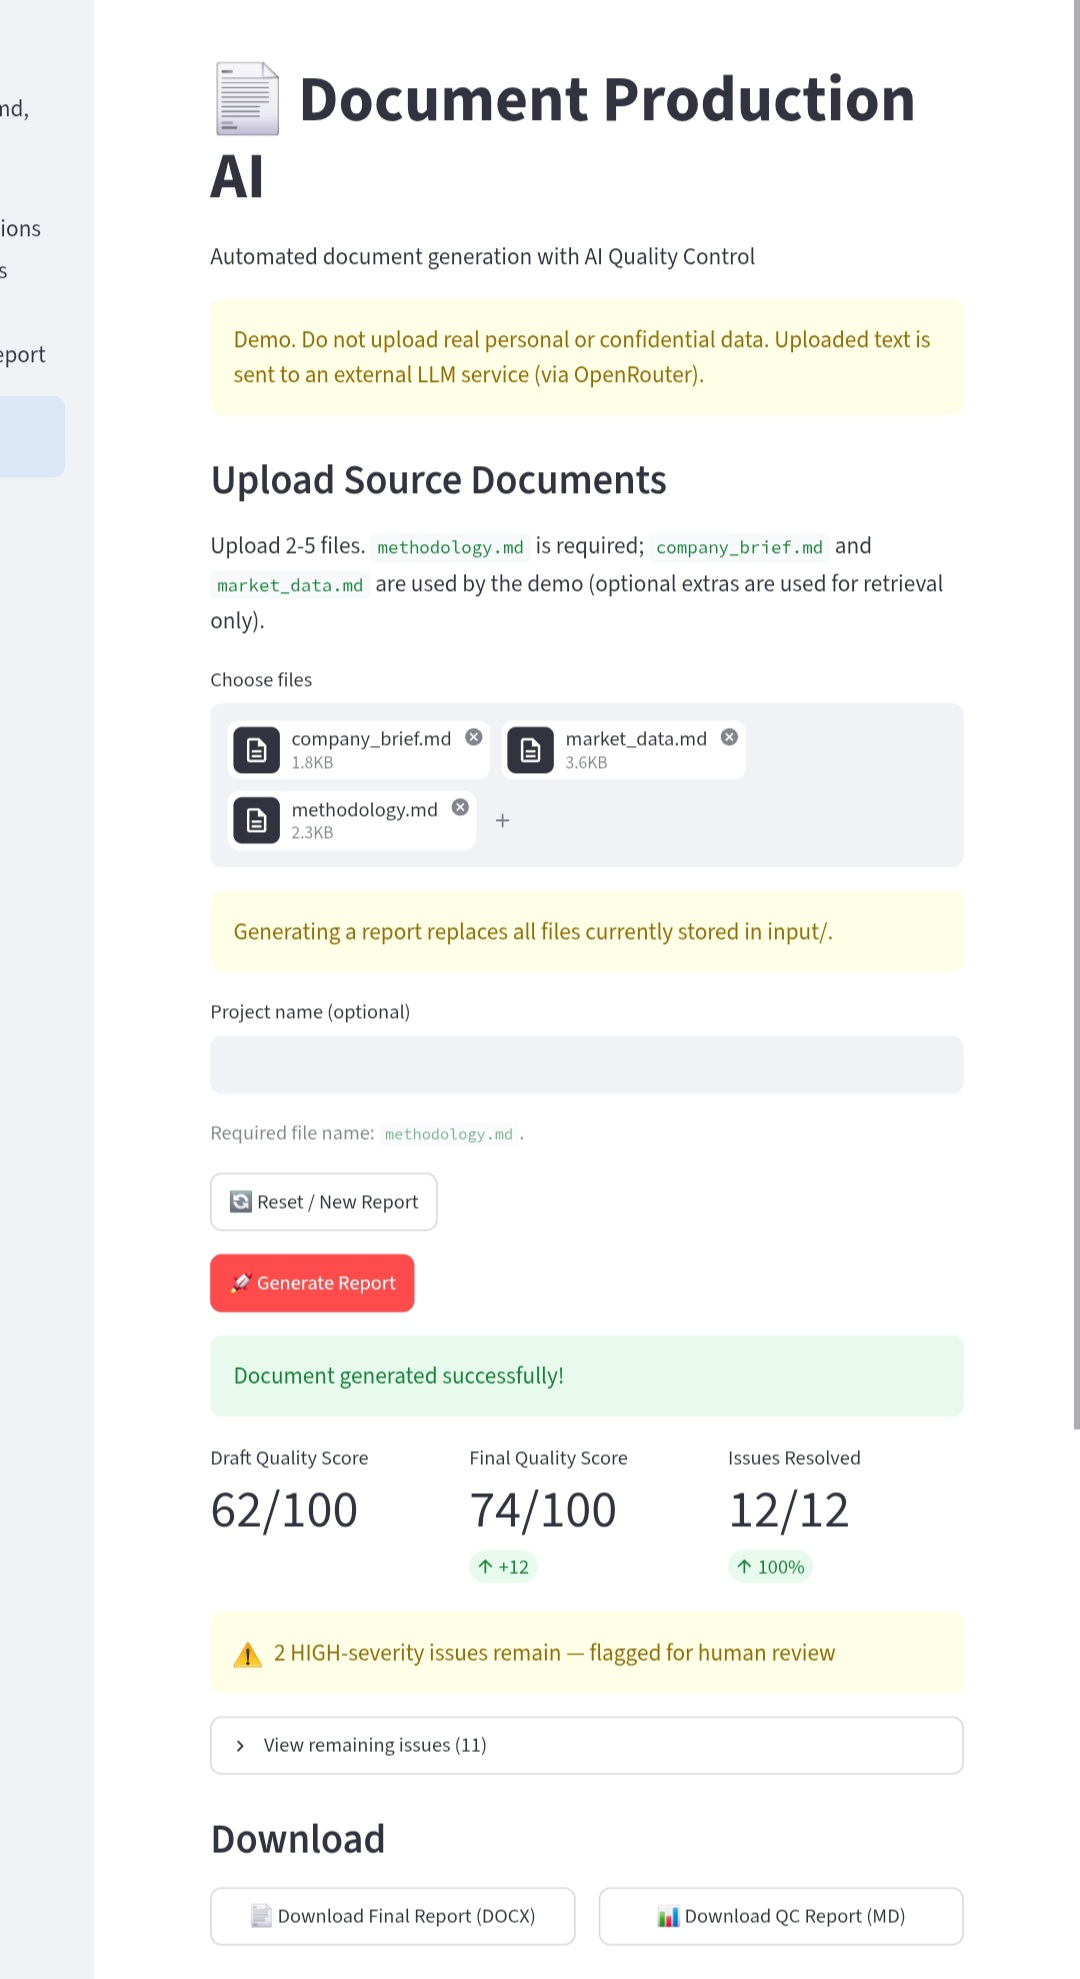
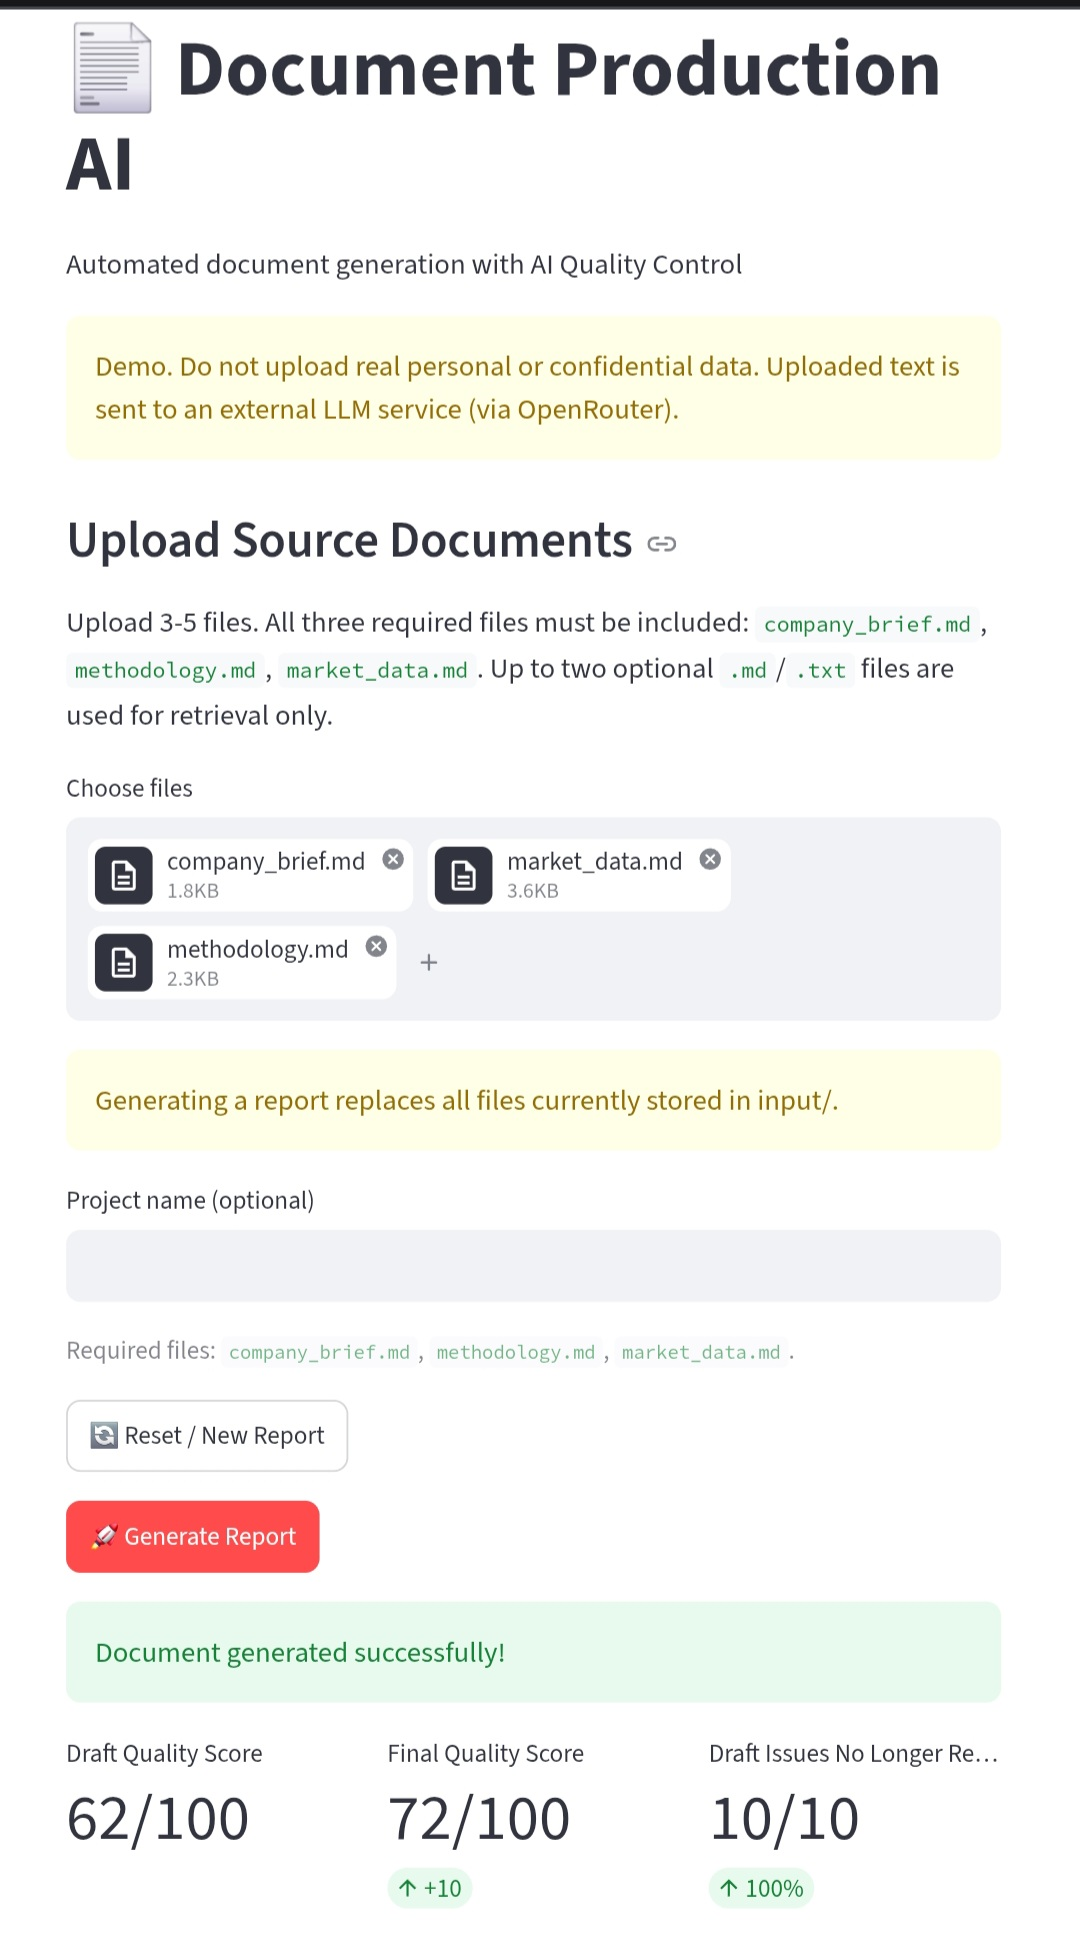
K1-final: update README and demo/expected/ to web run (62→72, +10)

diff --git a/demo/expected/QC_Report.md b/demo/expected/QC_Report.md
@@ -4,136 +4,128 @@
 
 ### Draft Quality (before AI revision)
 - Score: 62/100
-- Total Issues: 12
-  - HIGH: 7
-  - MEDIUM: 4
+- Total Issues: 10
+  - HIGH: 4
+  - MEDIUM: 5
   - LOW: 1
 
 ### Final Quality (after AI revision)
-- Score: 78/100
+- Score: 72/100
 - Total Issues: 10
-  - HIGH: 0
-  - MEDIUM: 10
-  - LOW: 0
+  - HIGH: 1
+  - MEDIUM: 8
+  - LOW: 1
 
 ### Improvement Metrics
-- Score Improvement: 62 → 78 (**+16**)
-- Draft Issues No Longer Reported: 12/12 (**100%**)
+- Score Improvement: 62 → 72 (**+10**)
+- Draft Issues No Longer Reported: 10/10 (**100%**)
 - Sections Improved: 4
 
 ---
 
 ## Draft Issues (before revision)
 
-### HIGH Severity (7 issues)
+### HIGH Severity (4 issues)
 
-1. **Key Risks**: Specific rent figure of €300 per square meter in Berlin and Vienna is not present in any source data or outline.
-   - Location: "average high street retail rents can exceed €300 per square meter"
-   - Suggestion: Remove the specific figure or replace with 'Data not available' per methodology rule 3.
+1. **Executive Summary**: EduVn is described as a key player in higher education, but sources state it specializes in language learning/ESL.
+   - Location: "EduVn: A key player in the higher education space, providing robust platforms for university-level education."
+   - Suggestion: Describe EduVn as a language learning specialist with strong ESL presence, per source data.
 
-2. **Key Risks**: GDPR fine amounts (€20 million or 4% of turnover) are not traceable to market_data.md; methodology prohibits figures not in sources.
-   - Location: "fines that reach up to €20 million or 4% of annual global turnover"
-   - Suggestion: Remove specific figures; state GDPR compliance is required without citing penalty amounts.
+2. **Executive Summary**: PhilLearn is described as offering comprehensive offerings across educational levels, contradicting the source, which positions it in corporate upskilling.
+   - Location: "PhilLearn: Notable for its comprehensive offerings across various educational levels, appealing to a broad demographic."
+   - Suggestion: State PhilLearn targets corporate upskilling with 300+ company partnerships.
 
-3. **Recommendations**: Claims 67% of consumers prioritize sustainably sourced products; source data only supports 48% willingness to pay a premium for sustainable beans.
-   - Location: "67% of consumers prioritize sustainably sourced products"
-   - Suggestion: Replace with the supported 48% figure from the Urban Coffee Consumer Survey 2025.
+3. **Market Overview**: Language learning segment share of 18% does not appear in the source data or outline; only K-12 (38%) and higher education (27%) are supported.
+   - Location: "Language Learning (18%): With 18% of the market share..."
+   - Suggestion: Remove the 18% figure or mark it as 'Data not available' if not present in market_data.md.
 
-4. **Recommendations**: Statistic that 72% of consumers value knowledgeable staff appears nowhere in the outline or source data.
-   - Location: "72% of consumers value knowledgeable staff"
-   - Suggestion: Remove this statistic or mark as 'Data not available'.
+4. **Market Overview**: Specific country revenue figures ($3.1B Indonesia, $2.0B Vietnam, $1.7B Philippines, $1.4B Thailand, $1.2B Malaysia) are not in the source data; sources only identify the three largest markets without figures.
+   - Location: "Indonesia: Estimated at $3.1 billion in 2024... Malaysia: With a forecasted revenue of $1.2 billion..."
+   - Suggestion: Remove all country-level revenue figures; state only that Indonesia, Vietnam, and the Philippines are the largest markets.
 
-5. **Competitive Landscape**: Store counts of 190 (Competitor B) and 120 (Competitor C) are not in the outline key points and cannot be verified against provided sources.
-   - Location: "Number of Stores: 190" / "Number of Stores: 120"
-   - Suggestion: Remove store counts unless they can be traced to the DACH Competitor Tracker source data.
+### MEDIUM Severity (5 issues)
 
-6. **Recommendations**: Statistic '67%' found in text but not verified in source documents (automated check)
-   - Location: Section contains: 67%
-   - Suggestion: Verify statistic '67%' against source data or mark as 'Data not available'
+1. **Executive Summary**: Recommendation to invest in infrastructure development is not among the outline's key points and lacks source support.
+   - Location: "Invest in Infrastructure Development: Consider investing in partnerships or initiatives that aim to improve technological infrastructure..."
+   - Suggestion: Remove or reframe as a risk mitigation note tied to documented infrastructure limitations.
 
-7. **Recommendations**: Statistic '72%' found in text but not verified in source documents (automated check)
-   - Location: Section contains: 72%
-   - Suggestion: Verify statistic '72%' against source data or mark as 'Data not available'
+2. **Key Risks**: Outline requires an explicit 'Data not available' note for certain specific risks; the section omits this required disclosure.
+   - Location: Entire Key Risks section — no 'Data not available' marker present.
+   - Suggestion: Add an explicit 'Data not available' statement where risk data is incomplete, per methodology.
 
-### MEDIUM Severity (4 issues)
+3. **Key Risks**: Claim that non-compliance results in 'substantial penalties' is not supported by source data.
+   - Location: "Non-compliance can result in substantial penalties, which could pose a significant risk..."
+   - Suggestion: Remove or soften to a general compliance-risk statement without asserting specific consequences.
 
-1. **Key Risks**: Fabricated example of a competitor loyalty program ('free coffee after ten purchases') with no source support.
-   - Location: "a loyalty program that grants customers a free coffee after ten purchases"
-   - Suggestion: Remove the invented example; describe loyalty program risk generically.
+4. **Competitive Landscape**: Technological innovation dynamics (AI, adaptive learning algorithms, data analytics) as competitive factors are not mentioned in source data.
+   - Location: "Companies that can effectively leverage new technologies—such as artificial intelligence, adaptive learning algorithms..."
+   - Suggestion: Remove or clearly label as analyst inference rather than sourced fact.
 
-2. **Key Risks**: Reference to 'Barista Guild's Coffee Skills Program' as a specific certification is not supported by sources.
-   - Location: "certifications such as the Barista Guild's Coffee Skills Program are highly regarded"
-   - Suggestion: Remove the specific certification name or state certification requirements generically.
-
-3. **Key Risks**: Claim of a 'surge in demand for plant-based alternatives' is an unsupported trend assertion not present in source data.
-   - Location: "Recent trends have shown a surge in demand for plant-based alternatives"
-   - Suggestion: Remove or rephrase as a hypothesis requiring market research validation.
-
-4. **Competitive Landscape**: Loyalty programs are attributed specifically to Competitors A and B; outline only states established loyalty programs exist without naming which competitors.
-   - Location: "The established loyalty programs of Competitor A and Competitor B"
-   - Suggestion: Rephrase to 'established competitors' loyalty programs' unless source data names them.
+5. **Market Overview**: Growth attributed to 'rising internet penetration, increased smartphone usage, and growing acceptance of online learning' is interpretation not stated in sources; sources note low smartphone penetration in rural areas.
+   - Location: "Such growth can be attributed to a combination of factors, including rising internet penetration, increased smartphone usage..."
+   - Suggestion: Remove unsourced causal explanations or explicitly mark them as assumptions.
 
 ### LOW Severity (1 issues)
 
-1. **Executive Summary**: Executive Summary is overly long and duplicates detailed recommendations that belong in Section 5, reducing C-level conciseness.
-   - Location: Five-item detailed recommendations list within the Executive Summary
-   - Suggestion: Summarize recommendations in 2-3 sentences and defer detail to the Recommendations section.
+1. **Executive Summary**: Marketing-style language ('remarkable', 'compelling opportunity', 'poised for significant growth') conflicts with the data-driven, non-promotional tone required.
+   - Location: "...which represents a remarkable 26% year-over-year growth"; "presents a compelling opportunity"
+   - Suggestion: Replace promotional adjectives with neutral, fact-based phrasing.
 
 
 ---
 
 ## Final Issues (remaining after revision)
 
-### HIGH Severity: None
+### HIGH Severity (1 issues)
 
-### MEDIUM Severity (10 issues)
+1. **Market Overview**: Country-level revenue figures (Indonesia $3.1B, Vietnam $2.0B, Philippines $1.7B, Thailand $1.4B, Malaysia $1.2B) do not appear in the provided source data and cannot be traced to market_data.md.
+   - Location: Revenue by Country: 'Indonesia: $3.1 billion (2024)' etc.
+   - Suggestion: Verify each figure against market_data.md; remove or replace any figure not present in the source data.
 
-1. **Executive Summary**: The combined EUR 3.0 billion figure is a derived calculation (2.4B + 0.6B) but is not explicitly labeled as a calculation, violating methodology rule 2.
-   - Location: The combined target market size for specialty coffee in Germany and Austria is projected to reach EUR 3.0 billion
-   - Suggestion: Add a note such as '(calculated as EUR 2.4B + EUR 0.6B)' when stating the combined figure.
+### MEDIUM Severity (8 issues)
 
-2. **Executive Summary**: Claim that both countries have 'stringent regulations regarding food and beverage distribution' goes beyond the outline's generic 'regulatory compliance' barrier; no source detail supports this characterization.
-   - Location: Both Germany and Austria have stringent regulations regarding food and beverage distribution
-   - Suggestion: Rephrase to 'regulatory compliance requirements' without characterizing stringency, or cite a source.
+1. **Market Overview**: Claim of 'substantial increase from previous years' is unsupported; no prior-year market size data exists in the sources.
+   - Location: 'This represents a substantial increase from previous years...'
+   - Suggestion: Remove the comparison to previous years or mark as 'Data not available'.
 
-3. **Market Overview**: Claim about 'rising prominence of online shopping' is not supported by any source data; the 71% in-store figure alone does not establish an online trend.
-   - Location: Despite the rising prominence of online shopping, 71% of coffee purchases occur in physical stores
-   - Suggestion: Remove the online shopping claim or state 'Data not available' on channel trends per methodology rule 3.
+2. **Market Overview**: Growth drivers (internet penetration, mobile adoption, remote learning emphasis) are speculative and not stated in the source data.
+   - Location: '...rising internet penetration rates, increased adoption of mobile technologies, and a growing emphasis on remote and blended learning...'
+   - Suggestion: Remove unsupported drivers or clearly label them as assumptions requiring validation.
 
-4. **Competitive Landscape**: The outline specifies Competitor A has 310 stores, but the section omits this store count entirely, weakening the competitive benchmark for new entrants.
-   - Location: Competitor A holds the leading position... with a substantial revenue of EUR 0.8 billion
-   - Suggestion: Add 'operating 310 stores' to the Competitor A description.
+3. **Market Overview**: Statement that language learning data is 'partially available' goes beyond sources, which only flag corporate/upskilling data as partially available.
+   - Location: 'Data on the language learning segment and corporate/upskilling market share is partially available.'
+   - Suggestion: Restrict the 'partially available' note to corporate/upskilling only, per source data.
 
-5. **Competitive Landscape**: Market share ranking ('A commands the largest share, followed by B and C') is inferred from revenue figures; no explicit market share data is provided in sources.
-   - Location: Competitor A commands the largest share, followed by Competitor B and Competitor C
-   - Suggestion: Label as an inference from revenue figures or state 'Data not available' for market shares.
+4. **Competitive Landscape**: GoToClass's 'extensive catalog of courses and user-friendly platform' is not supported by source data, which only states 15M+ users and K-12 focus.
+   - Location: 'Their extensive catalog of courses and user-friendly platform are pivotal...'
+   - Suggestion: Remove unsupported product claims; stick to user base and segment focus.
 
-6. **Competitive Landscape**: Claims about 'economies of scale' and Competitor B 'likely appealing to price-sensitive customers' are interpretations not stated in source data.
-   - Location: provides economies of scale... which likely appeals to a broader base of customers, particularly those who are price-sensitive
-   - Suggestion: Hedge clearly as analyst interpretation or remove unsupported reasoning.
+5. **Competitive Landscape**: Claim that EduVn caters to 'various proficiency levels' and is 'a preferred choice for learners' is not in the source data.
+   - Location: 'Their tailored offerings cater to various proficiency levels, making them a preferred choice...'
+   - Suggestion: Limit description to ESL specialization and strong presence as stated in sources.
 
-7. **Key Risks**: Specifically naming Berlin and Vienna as target cities is not supported by any source data; no city-level targeting has been established.
-   - Location: rental costs in cities such as Berlin and Vienna are not available
-   - Suggestion: Refer generically to 'major cities' unless city selection is supported by sources.
+6. **Competitive Landscape**: Technological innovation dynamics (AI, adaptive learning, data analytics shaping competition) are not mentioned in source data.
+   - Location: 'Technological Innovation: The rapid advancement of technology plays a crucial role...'
+   - Suggestion: Remove or reframe as a hypothesis, not a stated market dynamic.
 
-8. **Key Risks**: References to 'health-conscious products' and 'inflation and shifts in disposable income' are not present in source data; only sustainability preference is supported.
-   - Location: a shift towards sustainability or health-conscious products... economic factors such as inflation
-   - Suggestion: Limit volatility discussion to supported consumer preference data or mark as general market context.
+7. **Key Risks**: Claim that non-compliance 'can result in substantial penalties' is not supported by source data.
+   - Location: 'Non-compliance can result in substantial penalties...'
+   - Suggestion: Remove the penalty claim or mark as 'Data not available'.
 
-9. **Recommendations**: Suggesting 'organic and fair-trade certifications' introduces certification types not mentioned in any source data.
-   - Location: potentially including organic and fair-trade certifications
-   - Suggestion: Remove specific certification names or clearly label as illustrative options requiring validation.
+8. **Key Risks**: Outline requires an explicit 'Data not available' note for certain specific risks; the section omits this methodology-required disclosure.
+   - Location: Entire Key Risks section
+   - Suggestion: Add a 'Data not available' note for risk areas lacking source data.
 
-10. **Recommendations**: Characterizing target consumers as 'tech-savvy' is unsupported; sources only indicate age range (25-40) and purchase frequency.
-   - Location: reach tech-savvy consumers who are likely to engage with specialty coffee brands
-   - Suggestion: Replace with 'consumers aged 25-40' to stay within supported data.
+### LOW Severity (1 issues)
 
-### LOW Severity: None
+1. **Executive Summary**: Marketing-style language ('burgeoning market', 'lucrative landscape', 'impressive 19.5%') conflicts with the methodology's ban on marketing clichés.
+   - Location: 'This burgeoning market', 'lucrative landscape', 'an impressive 19.5%'
+   - Suggestion: Replace with neutral, data-driven phrasing (e.g., 'projected 19.5% CAGR').
 
 
 ---
 
 ## Revision Actions Taken
 
-- All HIGH-severity issues from draft were addressed by AI Revision Loop
-- 12 out of 12 issues resolved automatically
+- 1 HIGH-severity issue(s) remain after AI revision — flagged below for human review
+- 10 out of 10 issues resolved automatically

diff --git a/README.md b/README.md
@@ -102,16 +102,16 @@ hallucinations; remaining issues are reported for human review.
 
 **Dataset:** Northwind (demo/input/), synthetic English-language brief  
 **Models:** GPT-4o-mini (generator), GLM-5.3-Flash (QC)  
-**Date:** 2026-10-31 | **Commit:** 2c9bce5
+**Date:** 2026-11-01 | **Commit:** dce0bdc
 
 | Metric | Value |
 |--------|-------|
 | Draft Quality Score | 62/100 |
-| Final Quality Score | 78/100 |
-| Score Improvement | +16 |
-| Draft Issues | 12 (HIGH: 7, MEDIUM: 4, LOW: 1) |
-| Final Issues | 10 (HIGH: 0, MEDIUM: 10, LOW: 0) |
-| Draft Issues No Longer Reported | 12/12 (100%) |
+| Final Quality Score | 72/100 |
+| Score Improvement | +10 |
+| Draft Issues | 10 (HIGH: 4, MEDIUM: 5, LOW: 1) |
+| Final Issues | 10 (HIGH: 1, MEDIUM: 8, LOW: 1) |
+| Draft Issues No Longer Reported | 10/10 (100%) |
 | Sections Improved | 4 |
 
 *One run, one synthetic dataset, not a benchmark.*
@@ -145,7 +145,17 @@ brief). All companies and figures are fictional; none are real.
 
 ## Screenshots
 
-Screenshots pending update from latest run.
+### Main Interface
+
+![Demo Main Screen](docs/assets/demo_main_screen.png)
+
+### QC Report with Metrics
+
+![QC Report](docs/assets/demo_qc_report.png)
+
+### Draft Issues (HIGH Severity)
+
+![Draft Issues](docs/assets/demo_draft_issues.png)
 
 ## Tech Stack
 
